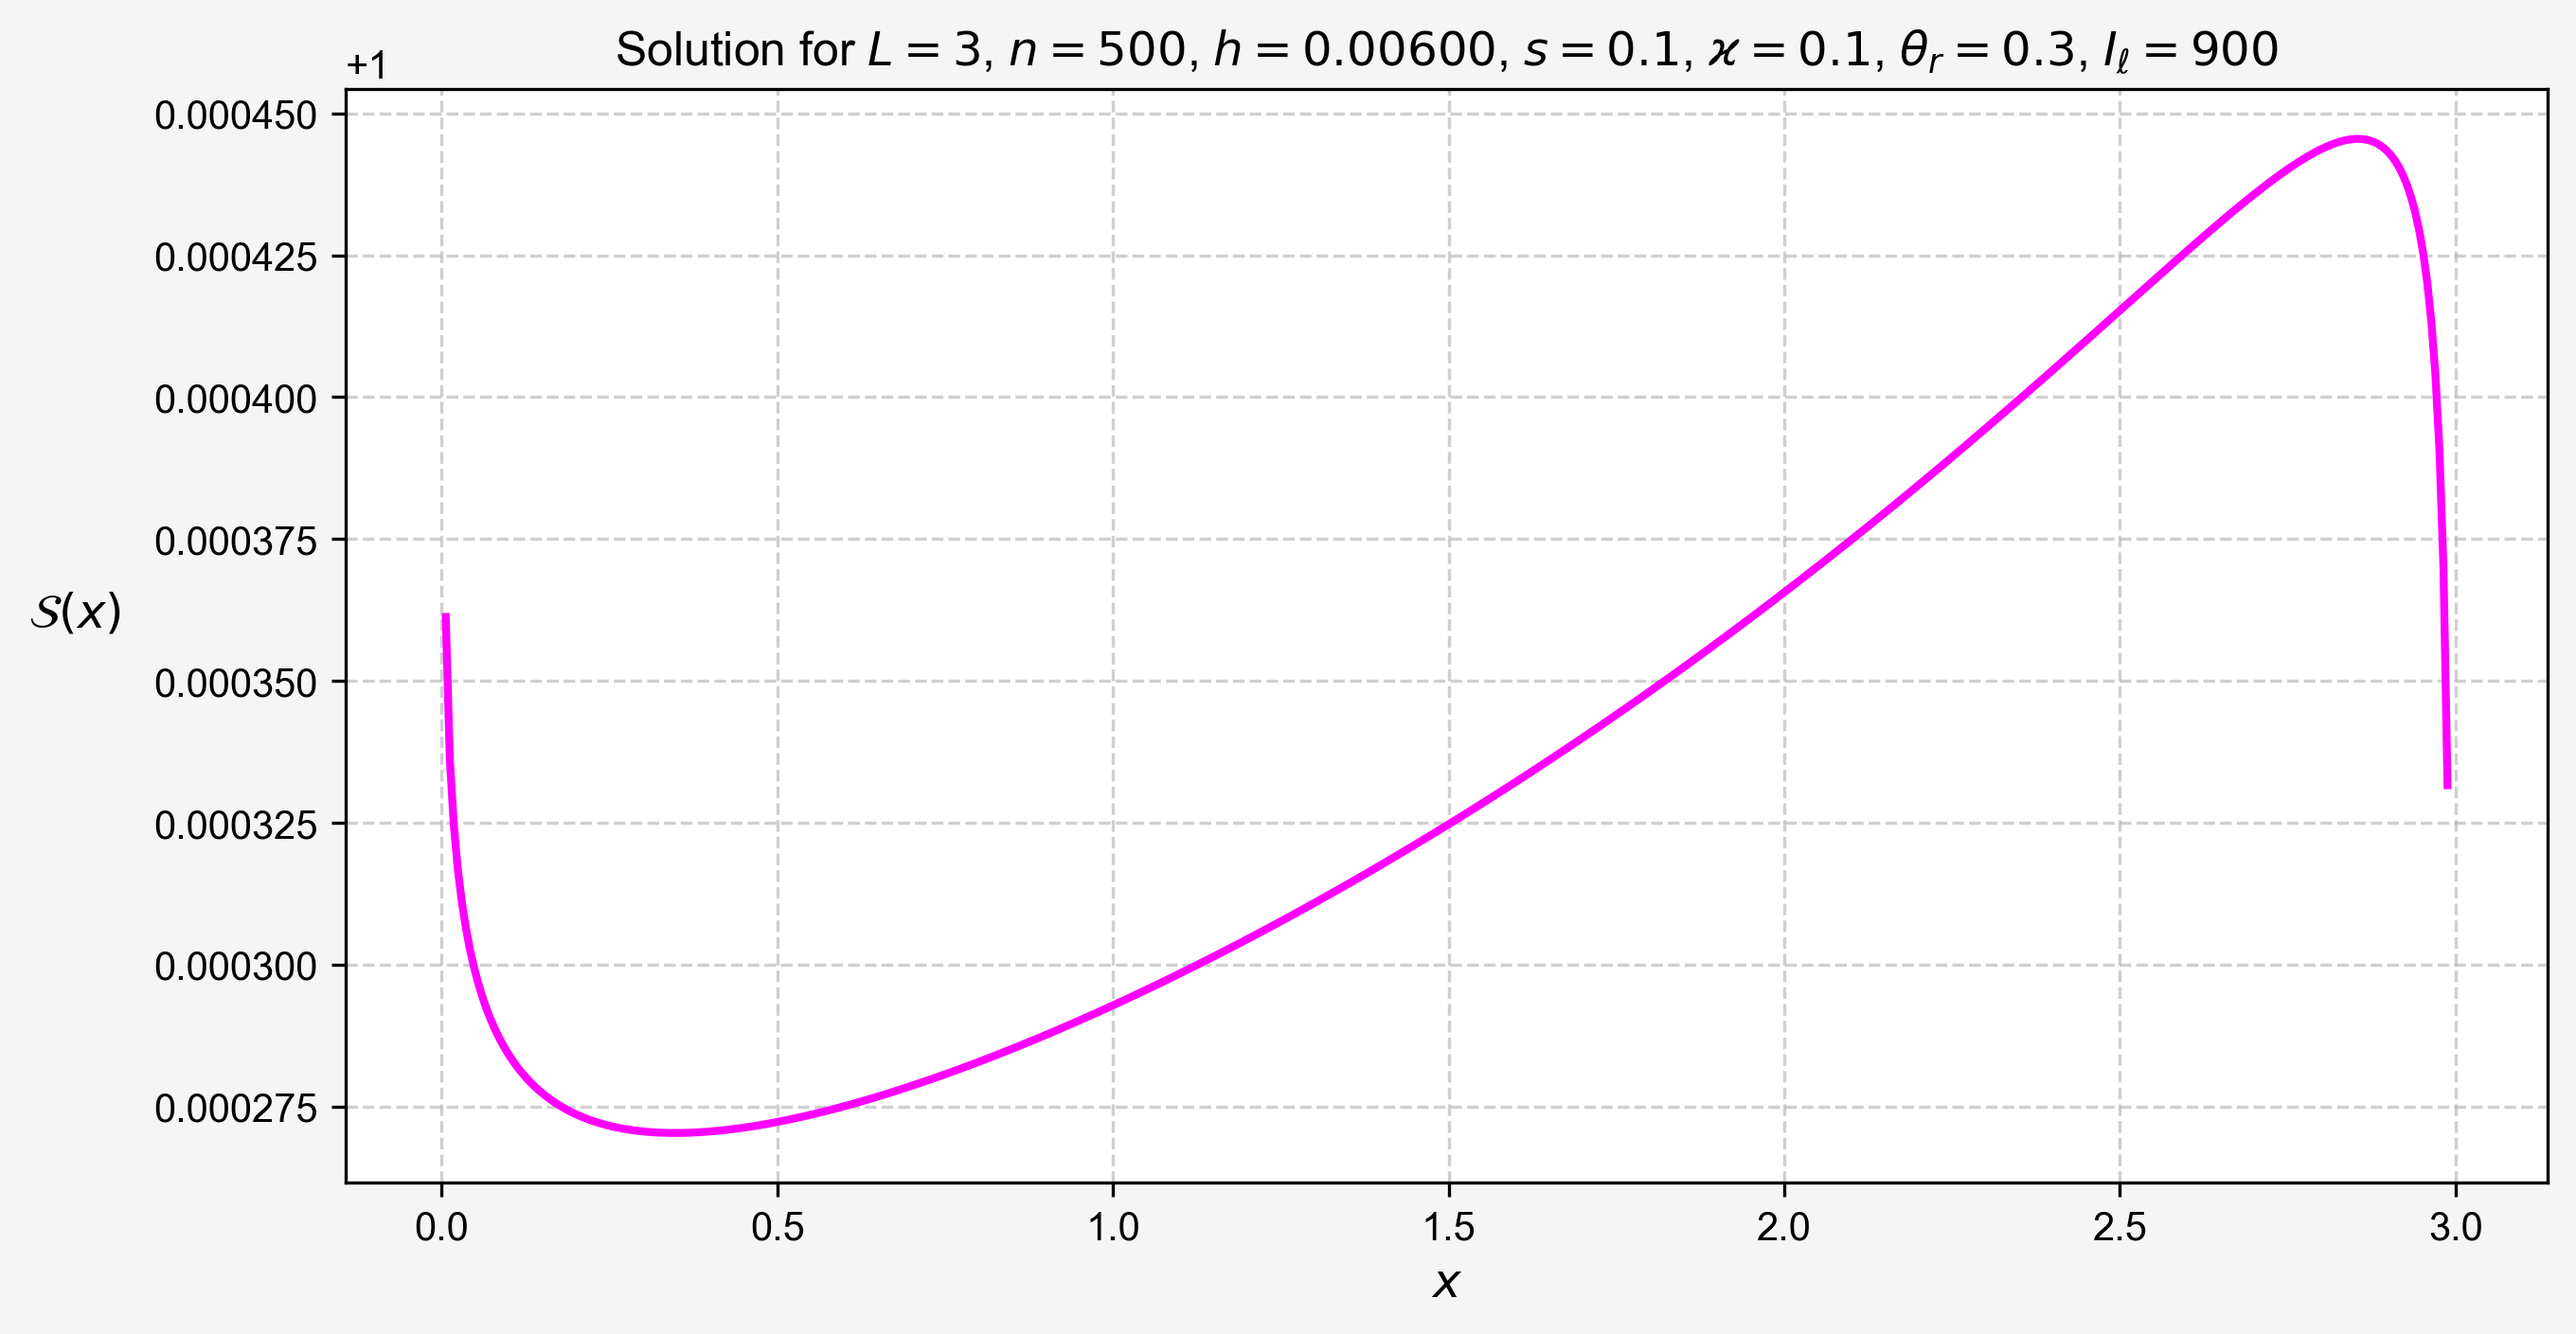
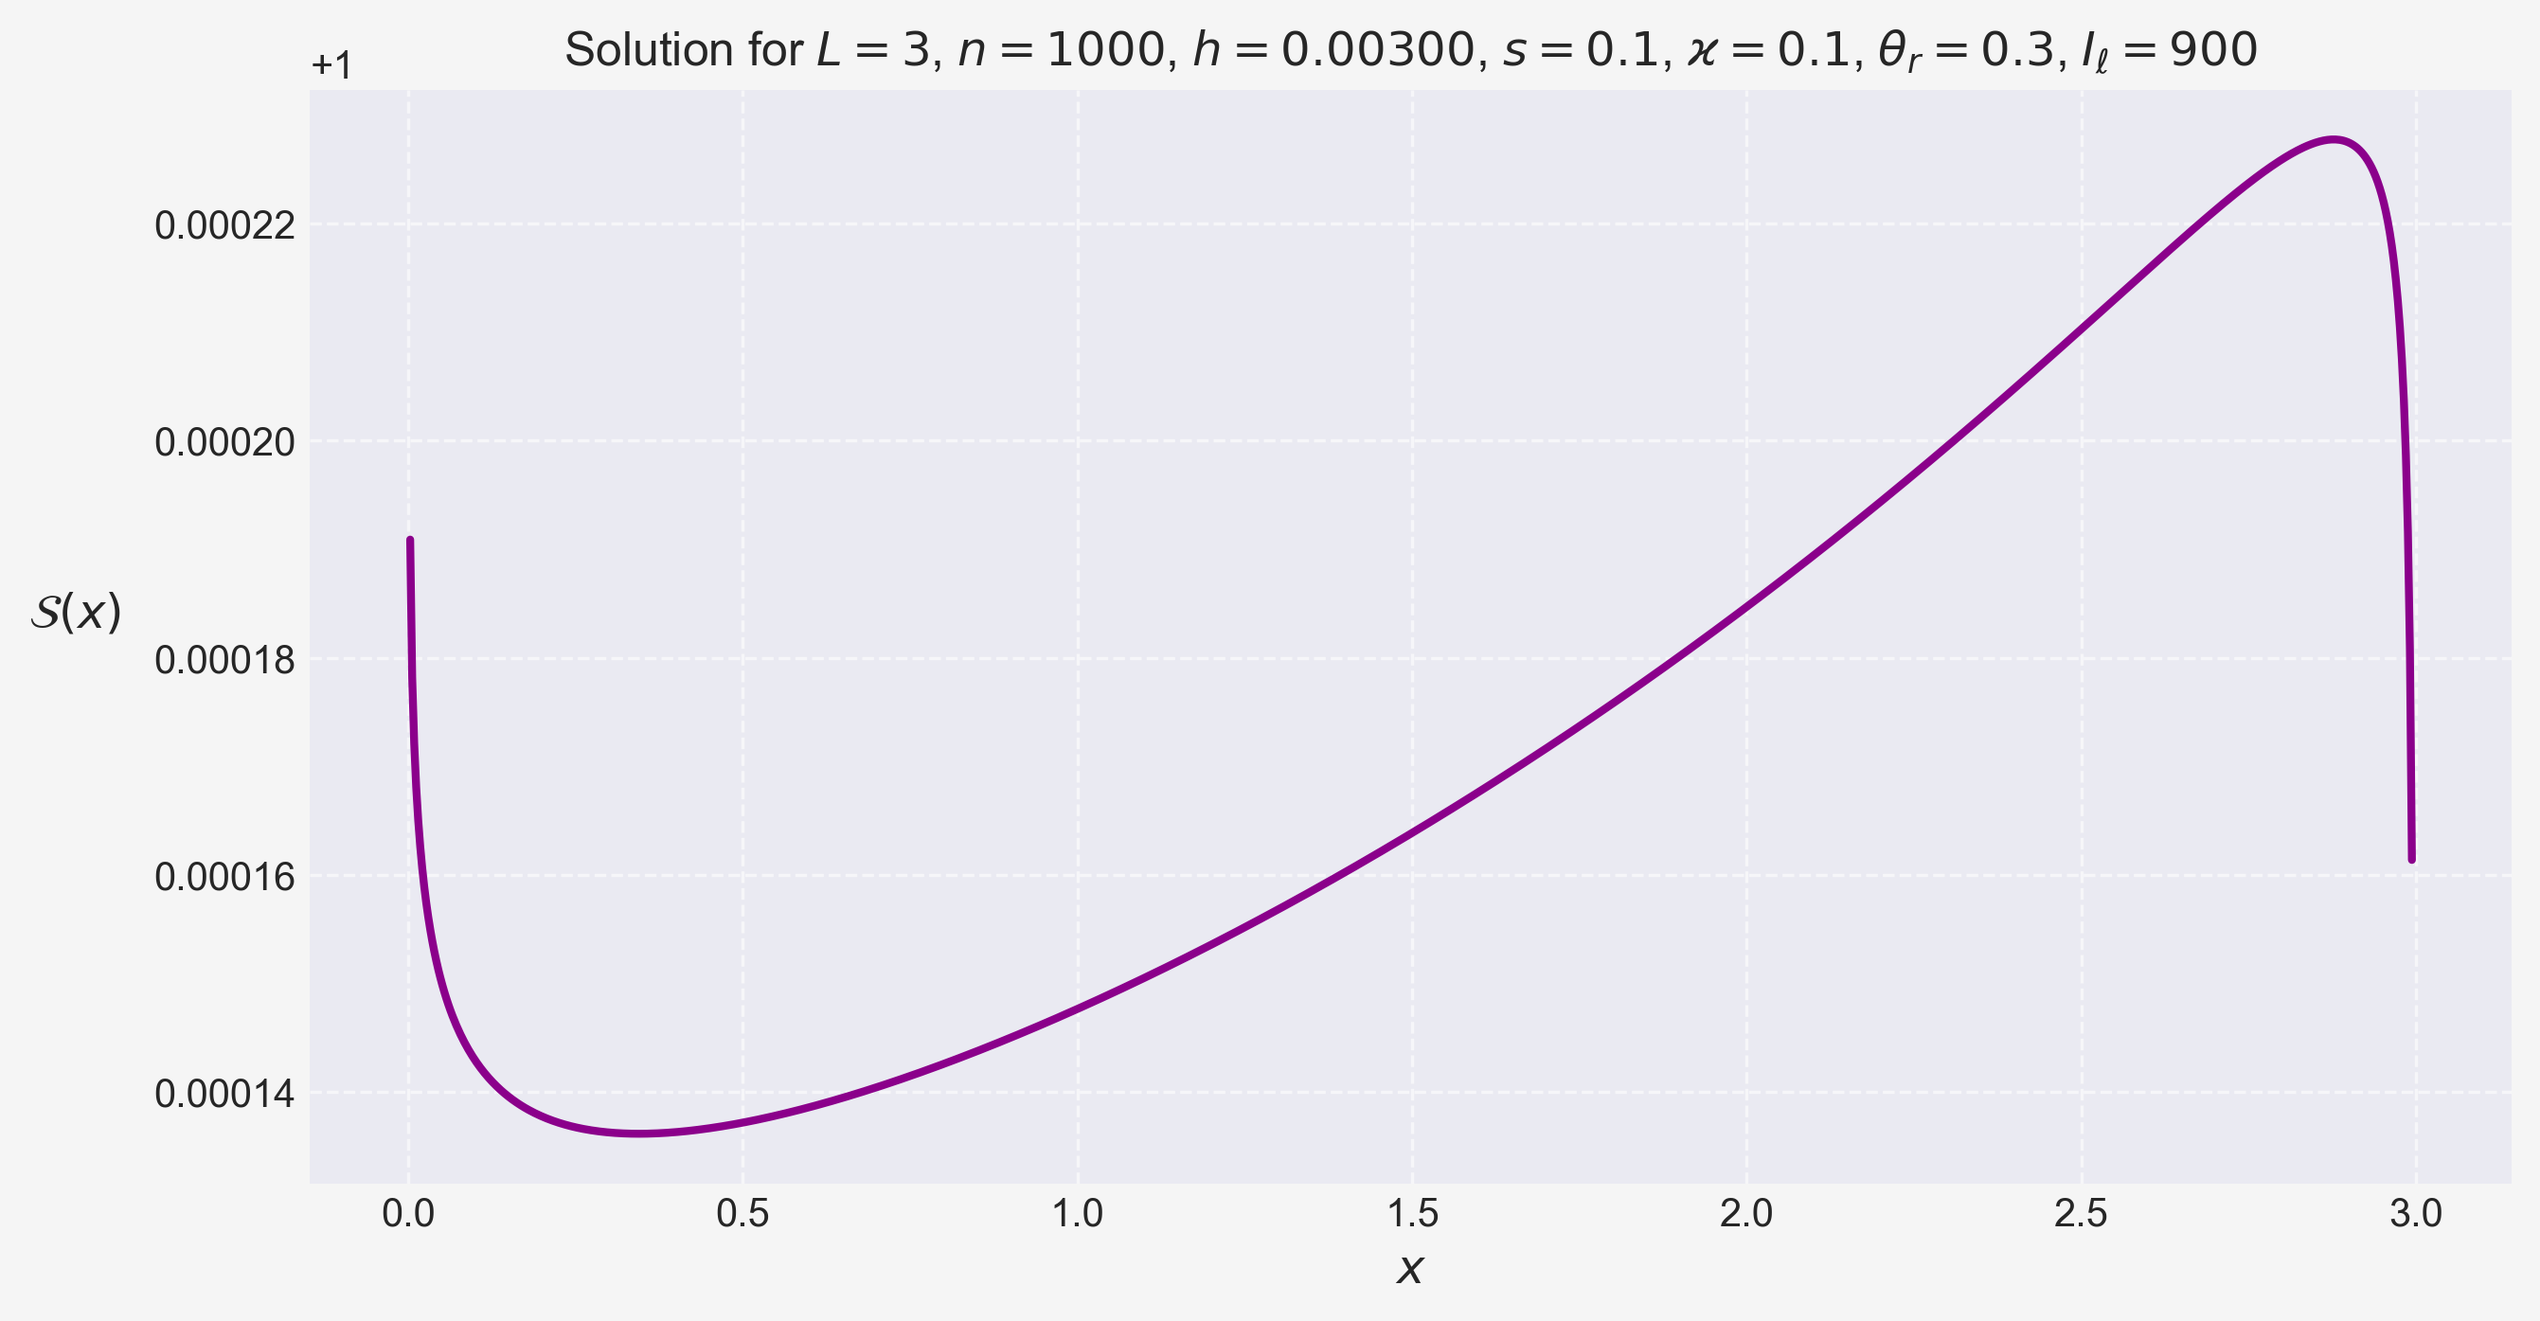
some visual changes

diff --git a/intEq.py b/intEq.py
@@ -4,8 +4,11 @@ from scipy.linalg import toeplitz
 from matplotlib import pyplot as plt
 from typing import Callable, Dict, Optional, Tuple
 import os
+import time
 
 from GEI import E3
+
+plt.style.use('seaborn-v0_8-darkgrid')
 
 class IntEq:
     """
@@ -113,18 +116,21 @@ class IntEq:
 
         return self.res
     
-    def solutionGraph(self)->None:
+    def solutionGraph(self)->str:
         path = os.path.join('graphs', 'solution.png')
         if not os.path.exists('graphs'):
             os.makedirs('graphs')
 
+        start = time.time()
         self.res = self.solve()
+        end = time.time()
+
         arr = np.linspace(0, self.L, self.res.size)
 
         fig, axs = plt.subplots(1, 1, figsize=(10, 5))
         fig.patch.set_facecolor('whitesmoke')
 
-        axs.plot(arr[1:-2], self.res[1:-2], color='fuchsia', linewidth=2)
+        axs.plot(arr[1:-2], self.res[1:-2], color='darkmagenta', linewidth=2)
         #axs.plot(arr[1:-2], np.ones(arr[1:-2].size), color='cyan')
         axs.grid(True, linestyle='--', alpha=0.6)
         plt.title(f"Solution for $L={self.L}$, $n={self.n}$, $h={self.h:.5f}$, $s={self.s}$, "
@@ -132,11 +138,11 @@ class IntEq:
         plt.xlabel(f'$x$', fontsize=12)
         plt.ylabel(f'$\\mathcal{{S}}(x)$', fontsize=12, rotation=0, labelpad=20)
         fig.canvas.manager.set_window_title("Solution")
-        plt.style.use('seaborn-v0_8-darkgrid')
-
         
         plt.savefig(path, dpi=300, bbox_inches='tight')
         plt.show()
+
+        return f"{end - start:.3f} s"
 
     def errorGraph(self)->None:
         path = os.path.join('graphs', 'error.png')
@@ -150,7 +156,7 @@ class IntEq:
         fig, axs = plt.subplots(1, 1, figsize=(10, 5))
         fig.patch.set_facecolor('whitesmoke')
 
-        axs.plot(arr, errors, color='fuchsia', linewidth=2)
+        axs.plot(arr, errors, color='darkmagenta', linewidth=2)
         axs.grid(True, linestyle='--', alpha=0.6)
         plt.title(f"Error for $L={self.L}$, $n={self.n}$, $h={self.h:.5f}$, $s={self.s}$, "
                   f"$\\varkappa={self.kappa}$, $\\theta_r={self.theta_r}$, $I_{{\\ell}}={self.I_l}$")

diff --git a/GEI.py b/GEI.py
@@ -2,7 +2,7 @@ import numpy as np
 from scipy.special import factorial, expn
 from matplotlib import pyplot as plt
 import os
-
+plt.style.use('seaborn-v0_8-darkgrid')
 
 def En(n:np.int64, x:np.float64)->np.float64:
 
@@ -109,8 +109,8 @@ if __name__ == "__main__":
         ax.set_xlabel('$x$', fontsize=12)
         ax.set_ylabel('$E_n$', fontsize=12, rotation=0, labelpad=15)
 
-    axs[0].set_title('My GEI')
-    axs[1].set_title('GEI from scipy')
+    axs[0].set_title('My $E_n$')
+    axs[1].set_title('$E_n$ from $scipy$')
 
     fig.suptitle('Tests for $E_n(x)$')
     fig.canvas.manager.set_window_title("Generalized Exponential Integral")

diff --git a/solver.py b/solver.py
@@ -4,7 +4,7 @@ from GEI import E2, E3
 if __name__ == "__main__":
     data = dict(
         L = 3,
-        n = 500,
+        n = 1000,
         s = 0.1,
         kappa = 0.1,
         theta_r = 0.3,
@@ -17,6 +17,8 @@ if __name__ == "__main__":
                      E2(alpha*x) -E2(alpha*(data['L']-x)))
     
     sol = IntEq(data, func)
-    sol.solutionGraph()
-    #sol.errorGraph()
+    time = sol.solutionGraph()
+    sol.errorGraph()
+
+    print(f"Estimated time: {time}")
 
